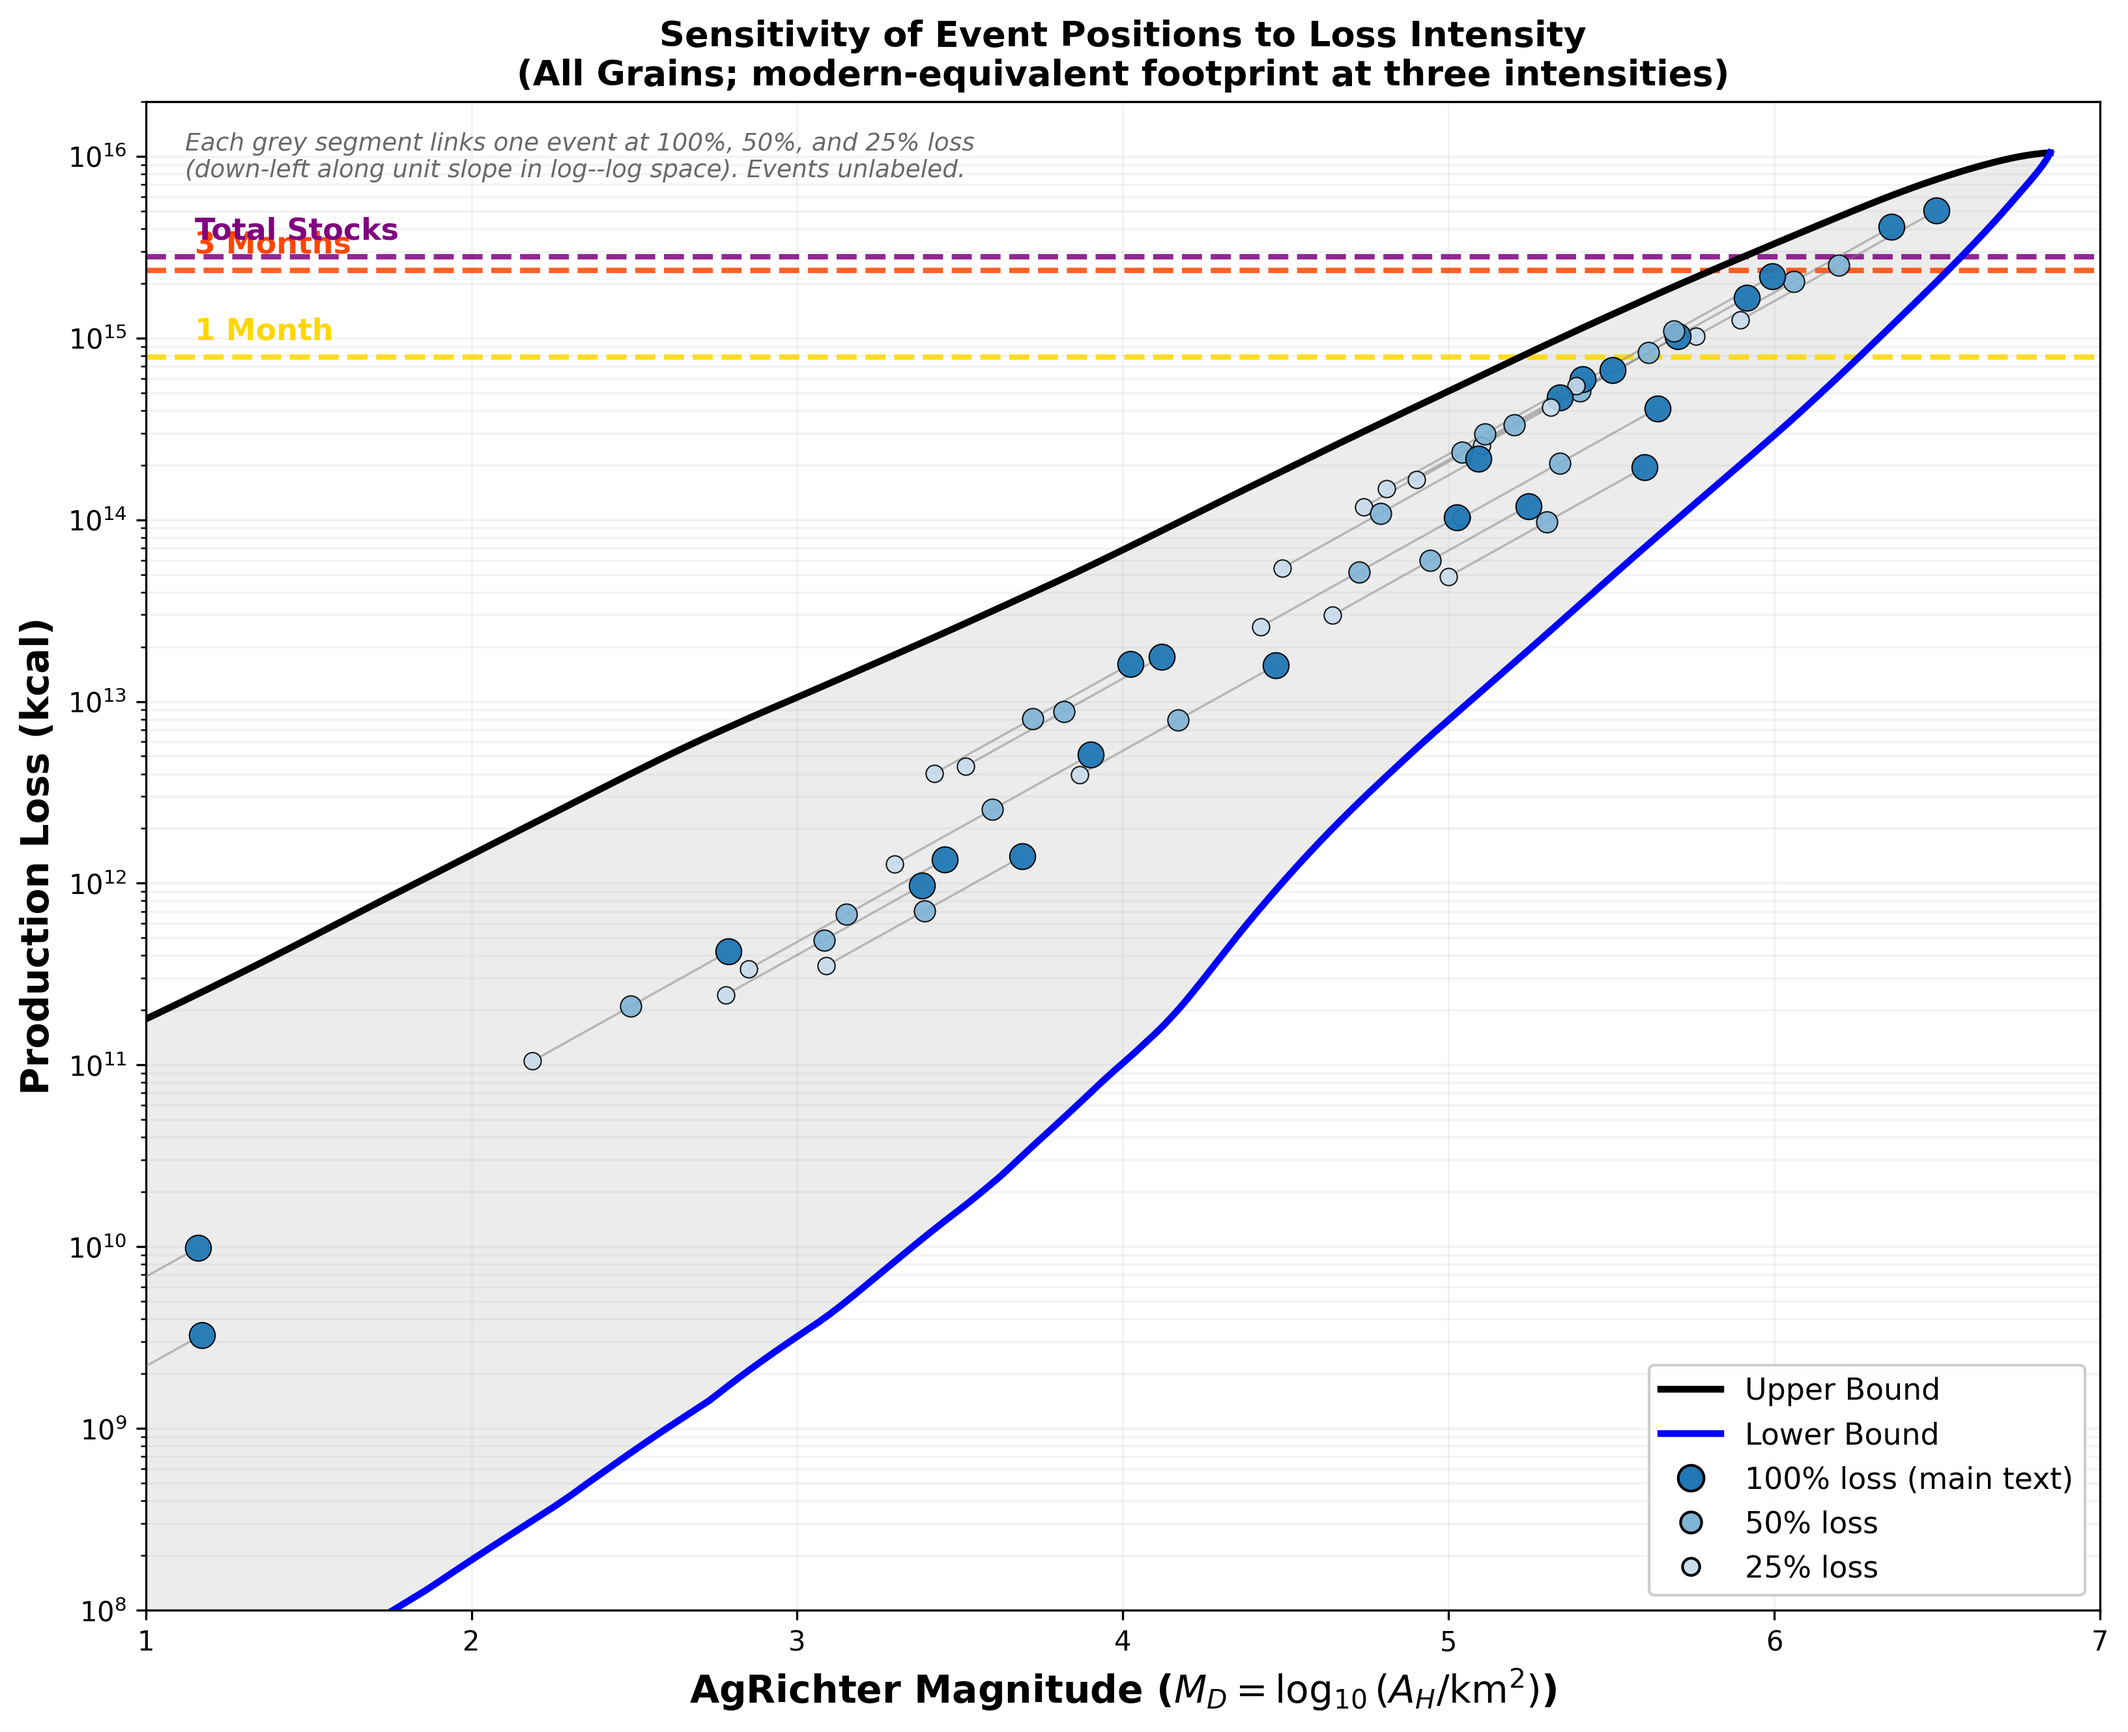
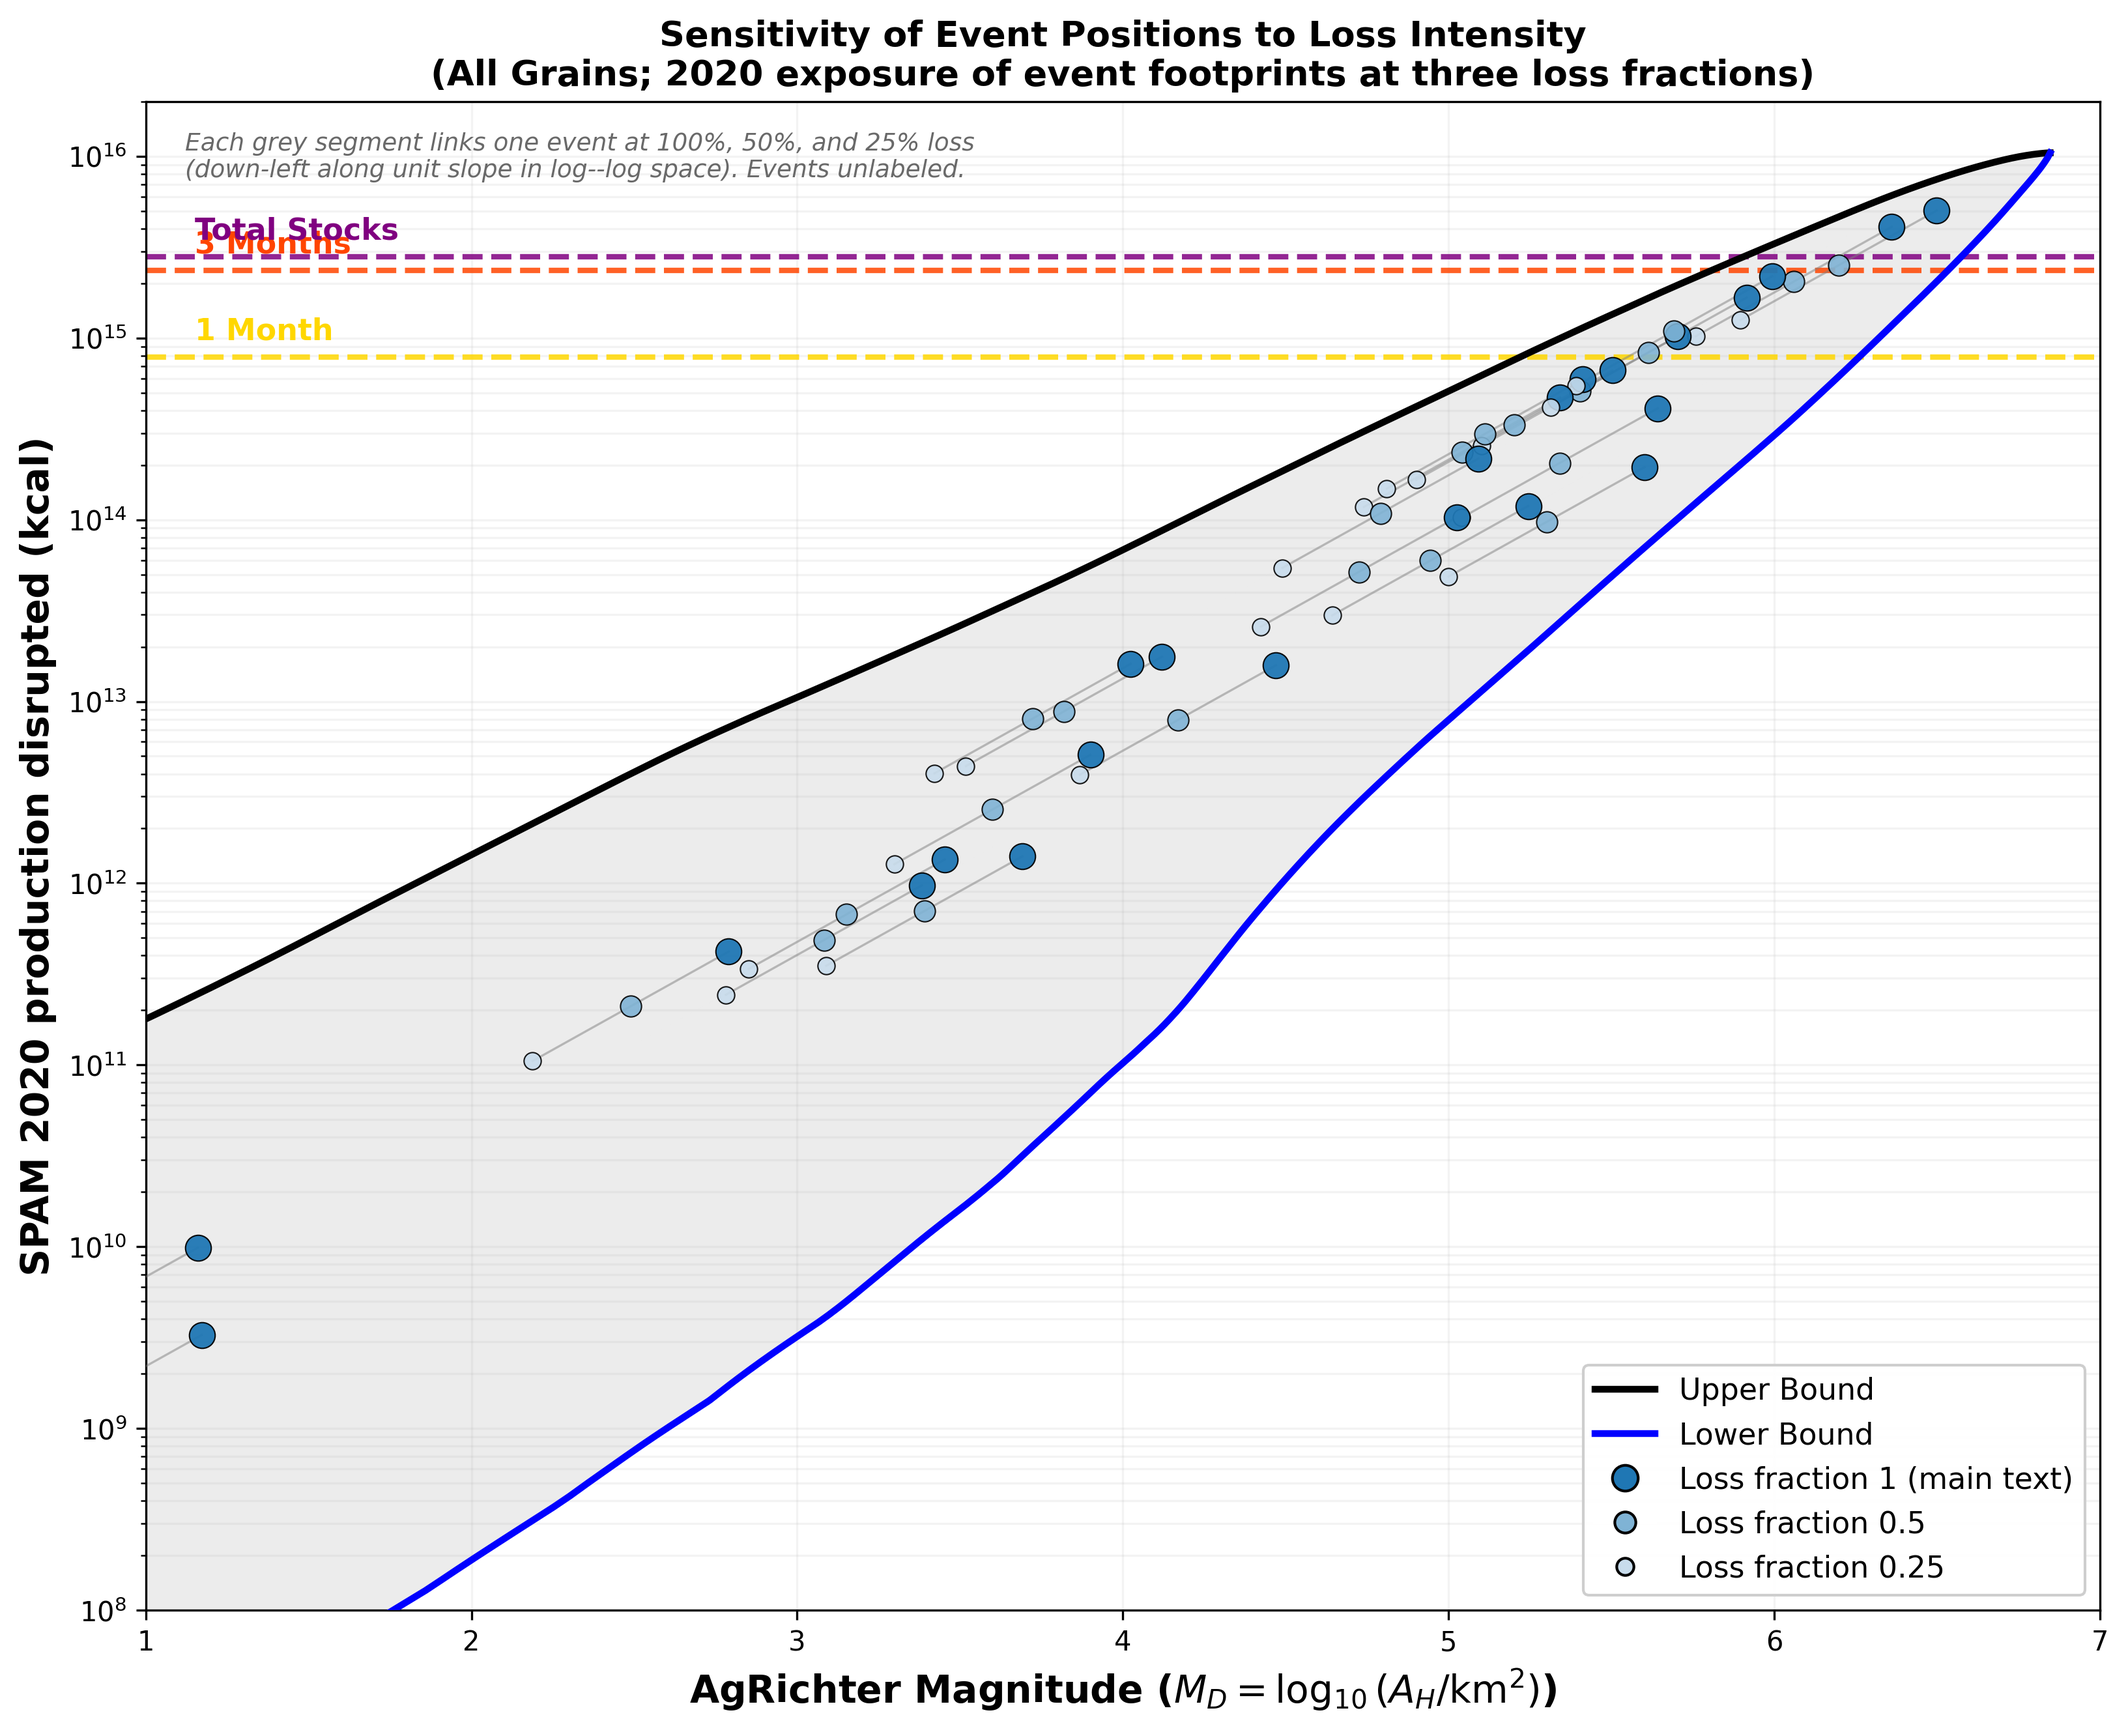
Label Fig. S5 as exposure at three loss fractions, because its points are 2020 exposure, not observed losses.
The figure was redrawn from the merged code with only the text changed.

Changed region(s): [[0.1874, 0.0312, 0.8432, 0.0625], [0.7495, 0.7807, 0.9057, 0.9056], [0.0, 0.2498, 0.0312, 0.7494]]

diff --git a/scripts/figS5_fractional_loss.py b/scripts/figS5_fractional_loss.py
@@ -41,9 +41,9 @@ logger = logging.getLogger('figS5')
 
 FRACTIONS = [1.0, 0.5, 0.25]
 FRACTION_STYLE = {
-    1.0: dict(color='#1f77b4', size=90, alpha=0.95, label='100% loss (main text)'),
-    0.5: dict(color='#7fb3d5', size=60, alpha=0.9, label='50% loss'),
-    0.25: dict(color='#c8dcec', size=40, alpha=0.9, label='25% loss'),
+    1.0: dict(color='#1f77b4', size=90, alpha=0.95, label='Loss fraction 1 (main text)'),
+    0.5: dict(color='#7fb3d5', size=60, alpha=0.9, label='Loss fraction 0.5'),
+    0.25: dict(color='#c8dcec', size=40, alpha=0.9, label='Loss fraction 0.25'),
 }
 
 # No per-event text labels: the triplet trajectories are the message.
@@ -129,14 +129,14 @@ def main():
     ax.set_ylim(1e8, 2e16)
     ax.set_xlabel(r'AgRichter Magnitude ($M_D = \log_{10}(A_H/\mathrm{km}^2)$)',
                   fontsize=14, fontweight='bold')
-    ax.set_ylabel('Production Loss (kcal)', fontsize=14, fontweight='bold')
+    ax.set_ylabel('SPAM 2020 production disrupted (kcal)', fontsize=14, fontweight='bold')
     ax.text(0.02, 0.98,
             'Each grey segment links one event at 100%, 50%, and 25% loss\n'
             '(down-left along unit slope in log--log space). Events unlabeled.',
             transform=ax.transAxes, fontsize=9, va='top', color='dimgray',
             style='italic')
     ax.set_title('Sensitivity of Event Positions to Loss Intensity\n'
-                 '(All Grains; modern-equivalent footprint at three intensities)',
+                 '(All Grains; 2020 exposure of event footprints at three loss fractions)',
                  fontsize=13, fontweight='bold')
     ax.grid(True, which='both', alpha=0.15)
 
